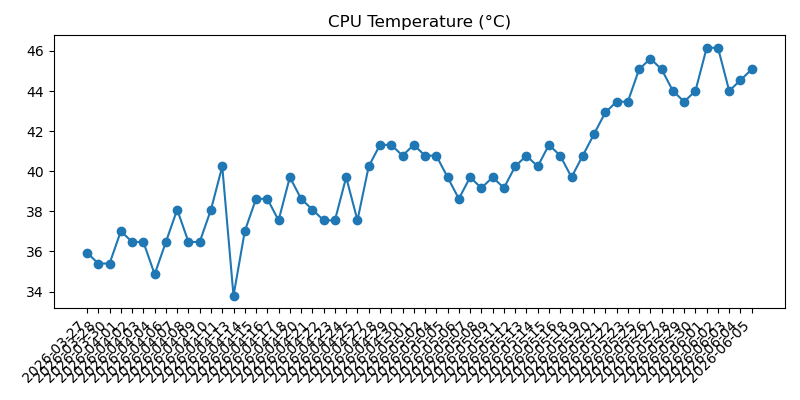
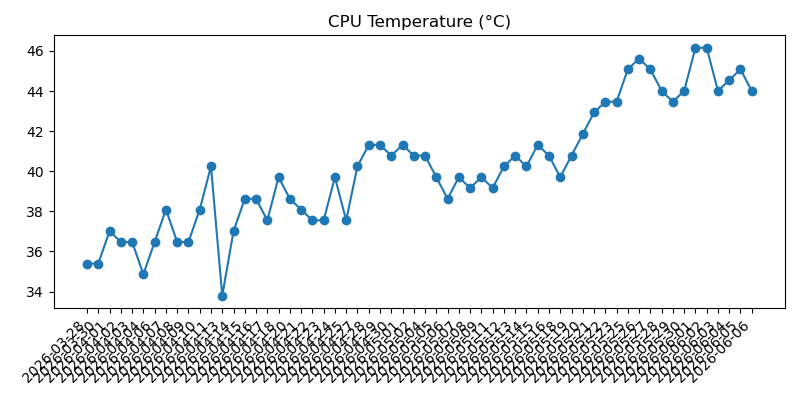
Add daily system and weather report

Changed region(s): [[0.0938, 0.09, 0.9688, 0.75], [0.0938, 0.81, 0.9375, 0.87]]

diff --git a/2026-06.md b/2026-06.md
@@ -170,3 +170,37 @@
 - Overall: Warning
 - Warning: Power issue detected: Undervoltage has occurred; Throttling has occurred
 
+## 2026-06-06 09:48:33
+
+### Machine
+- Uptime: up 6 weeks, 4 days, 11 hours, 34 minutes
+- CPU load (1m, 5m, 15m): 0.07, 0.02, 0.00
+- RAM used: 197 MB / 921 MB (21.4%)
+- Disk used (/): 3.6 GB / 28.8 GB (12.4%)
+- Free disk space (/): 24.0 GB
+- CPU temp: 44.0°C
+- Voltage / throttling: Undervoltage has occurred; Throttling has occurred
+
+### Reachability
+- Internet check (1.1.1.1): Reachable (3.6 ms)
+
+### Weather
+- Madrid:
+  - Condition: Poco nuboso
+  - Max temp: 31°C
+  - Min temp: 18°C
+  - Feels like: 24°C
+  - Chance of rain: 0%
+  - Warnings: None reported
+- Barcelona:
+  - Condition: Intervalos nubosos
+  - Max temp: 26°C
+  - Min temp: 17°C
+  - Feels like: 22°C
+  - Chance of rain: 40%
+  - Warnings: None reported
+
+### Health
+- Overall: Warning
+- Warning: Power issue detected: Undervoltage has occurred; Throttling has occurred
+